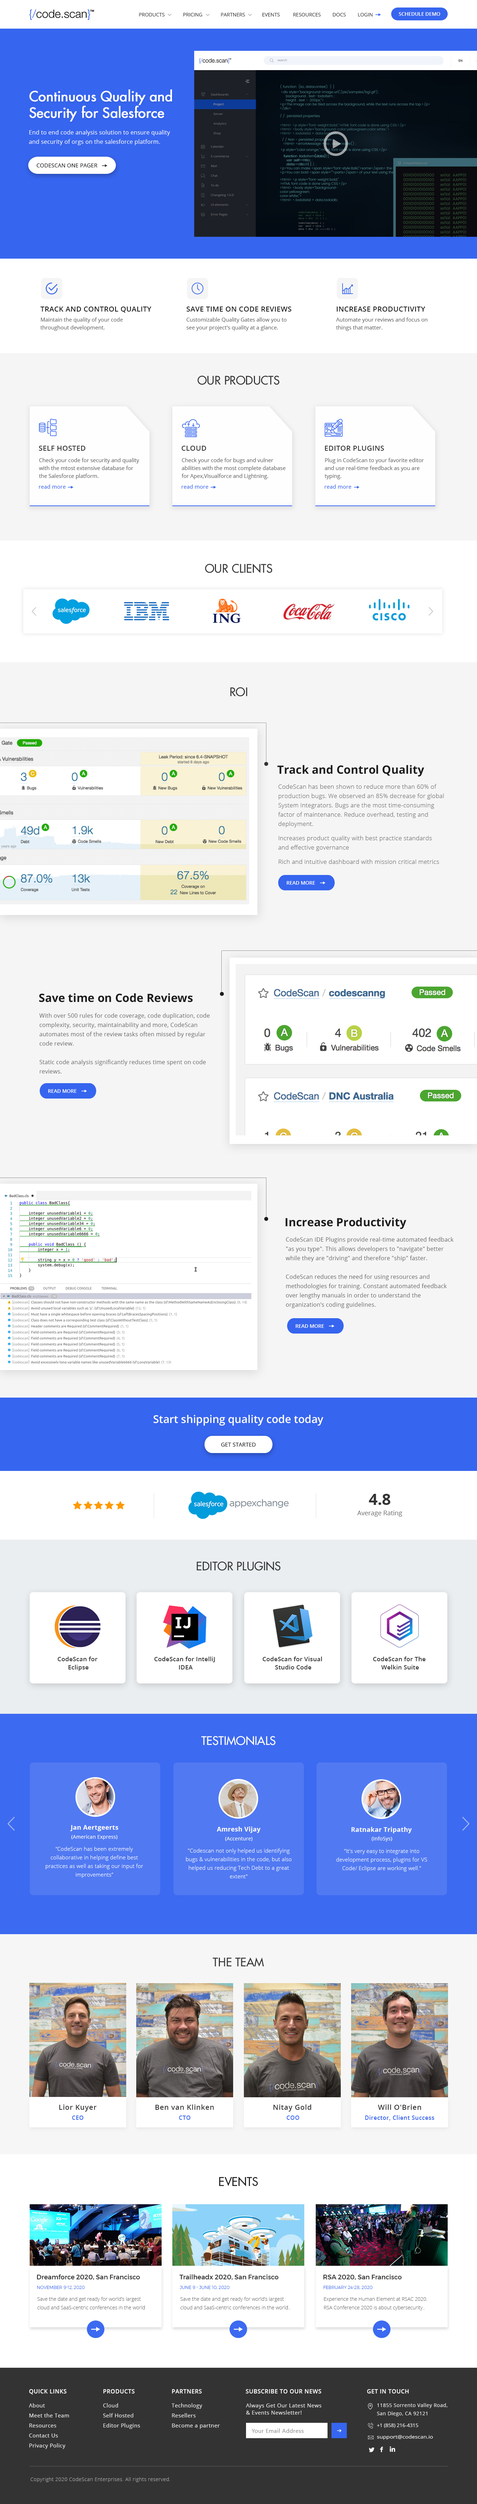
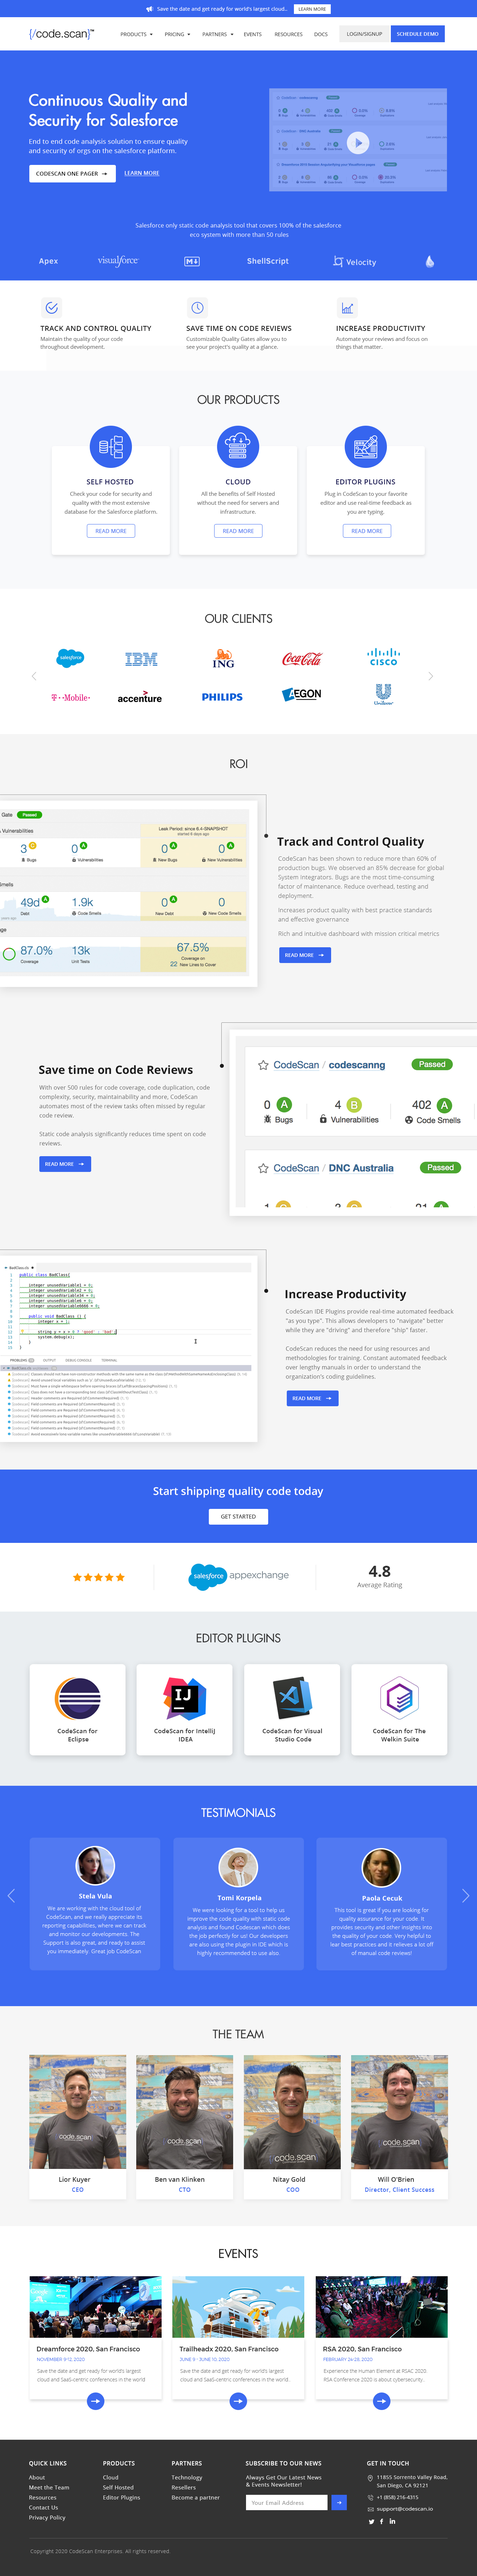
Modifications for new design

diff --git a/codescan/homev2.html b/codescan/homev2.html
@@ -12,6 +12,6 @@ body{
 </head>
 
 <body>
-<img src="home2.jpg" width="100%" height="auto" alt=""/>
+<img src="home3.jpg" width="100%" height="auto" alt=""/>
 </body>
 </html>
